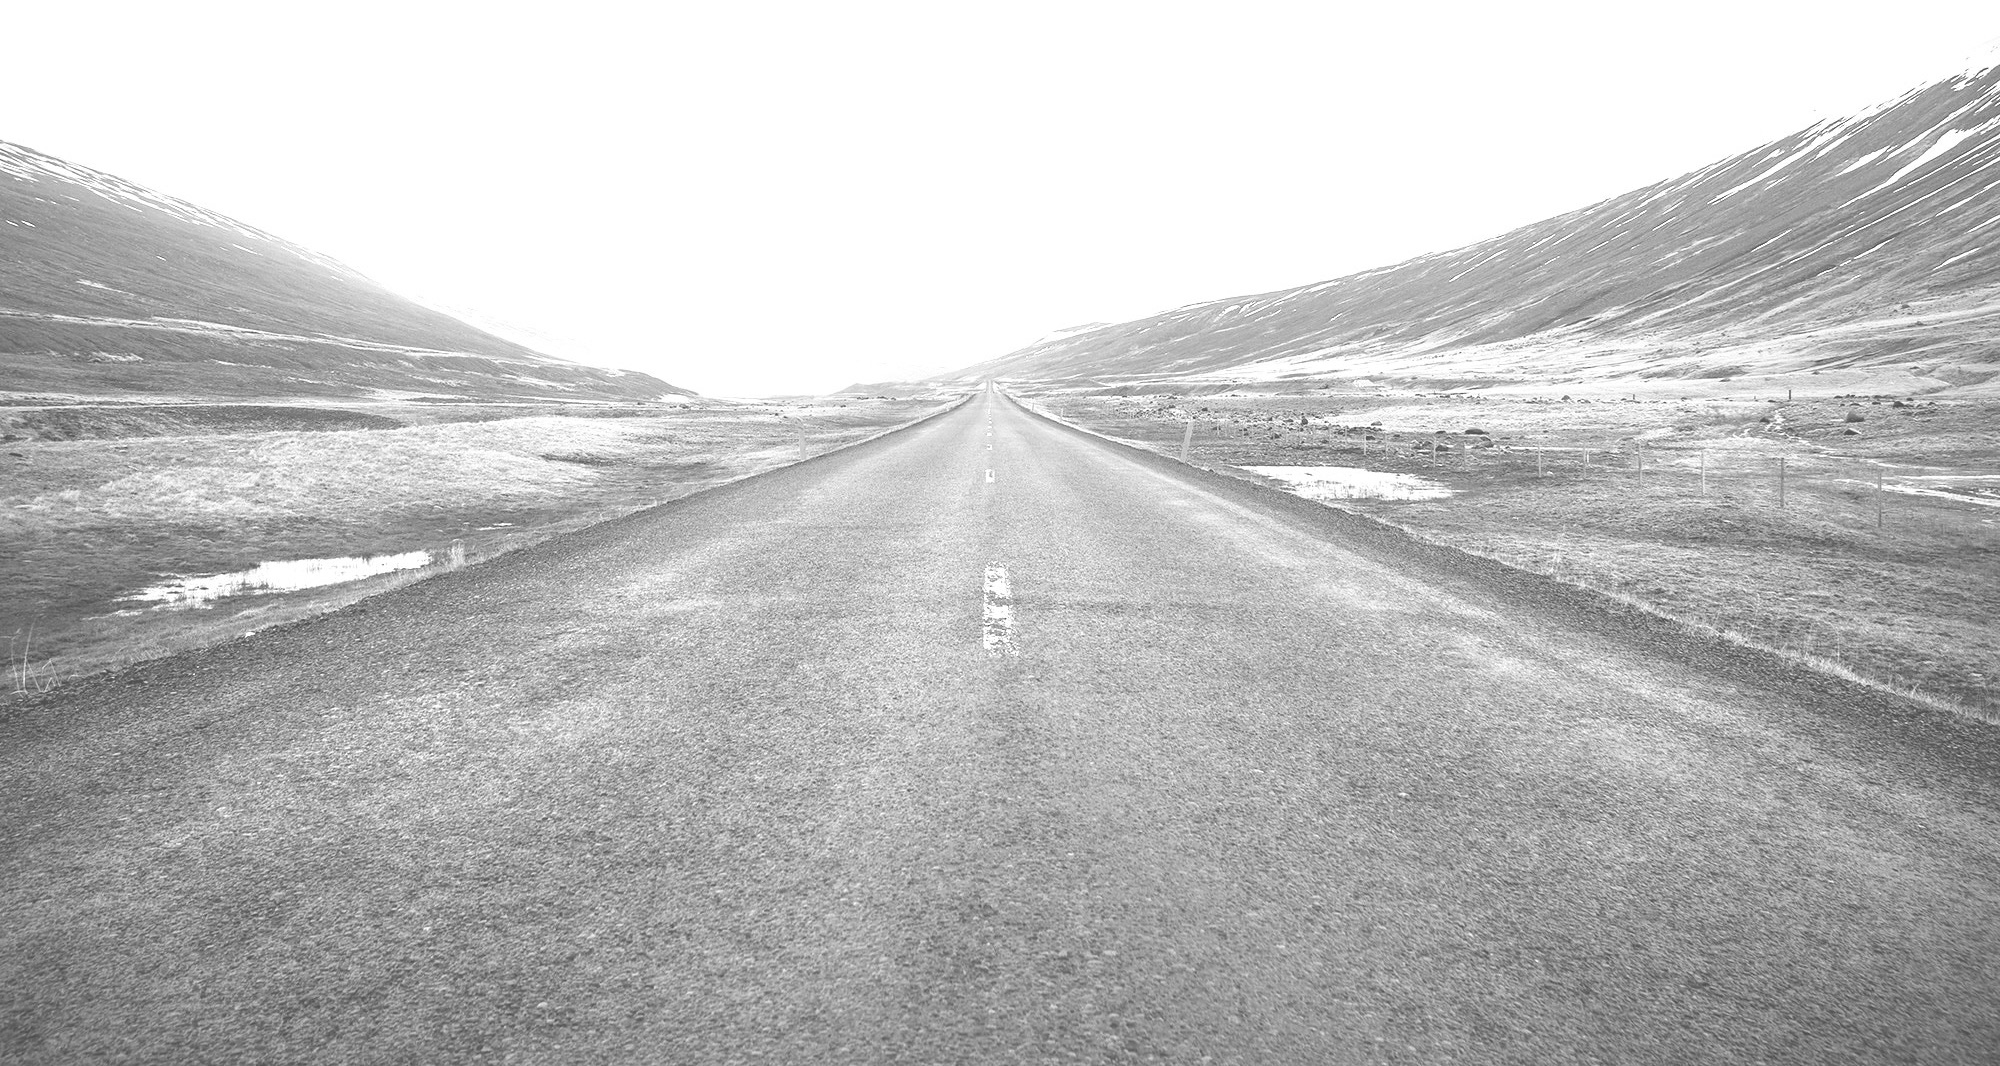
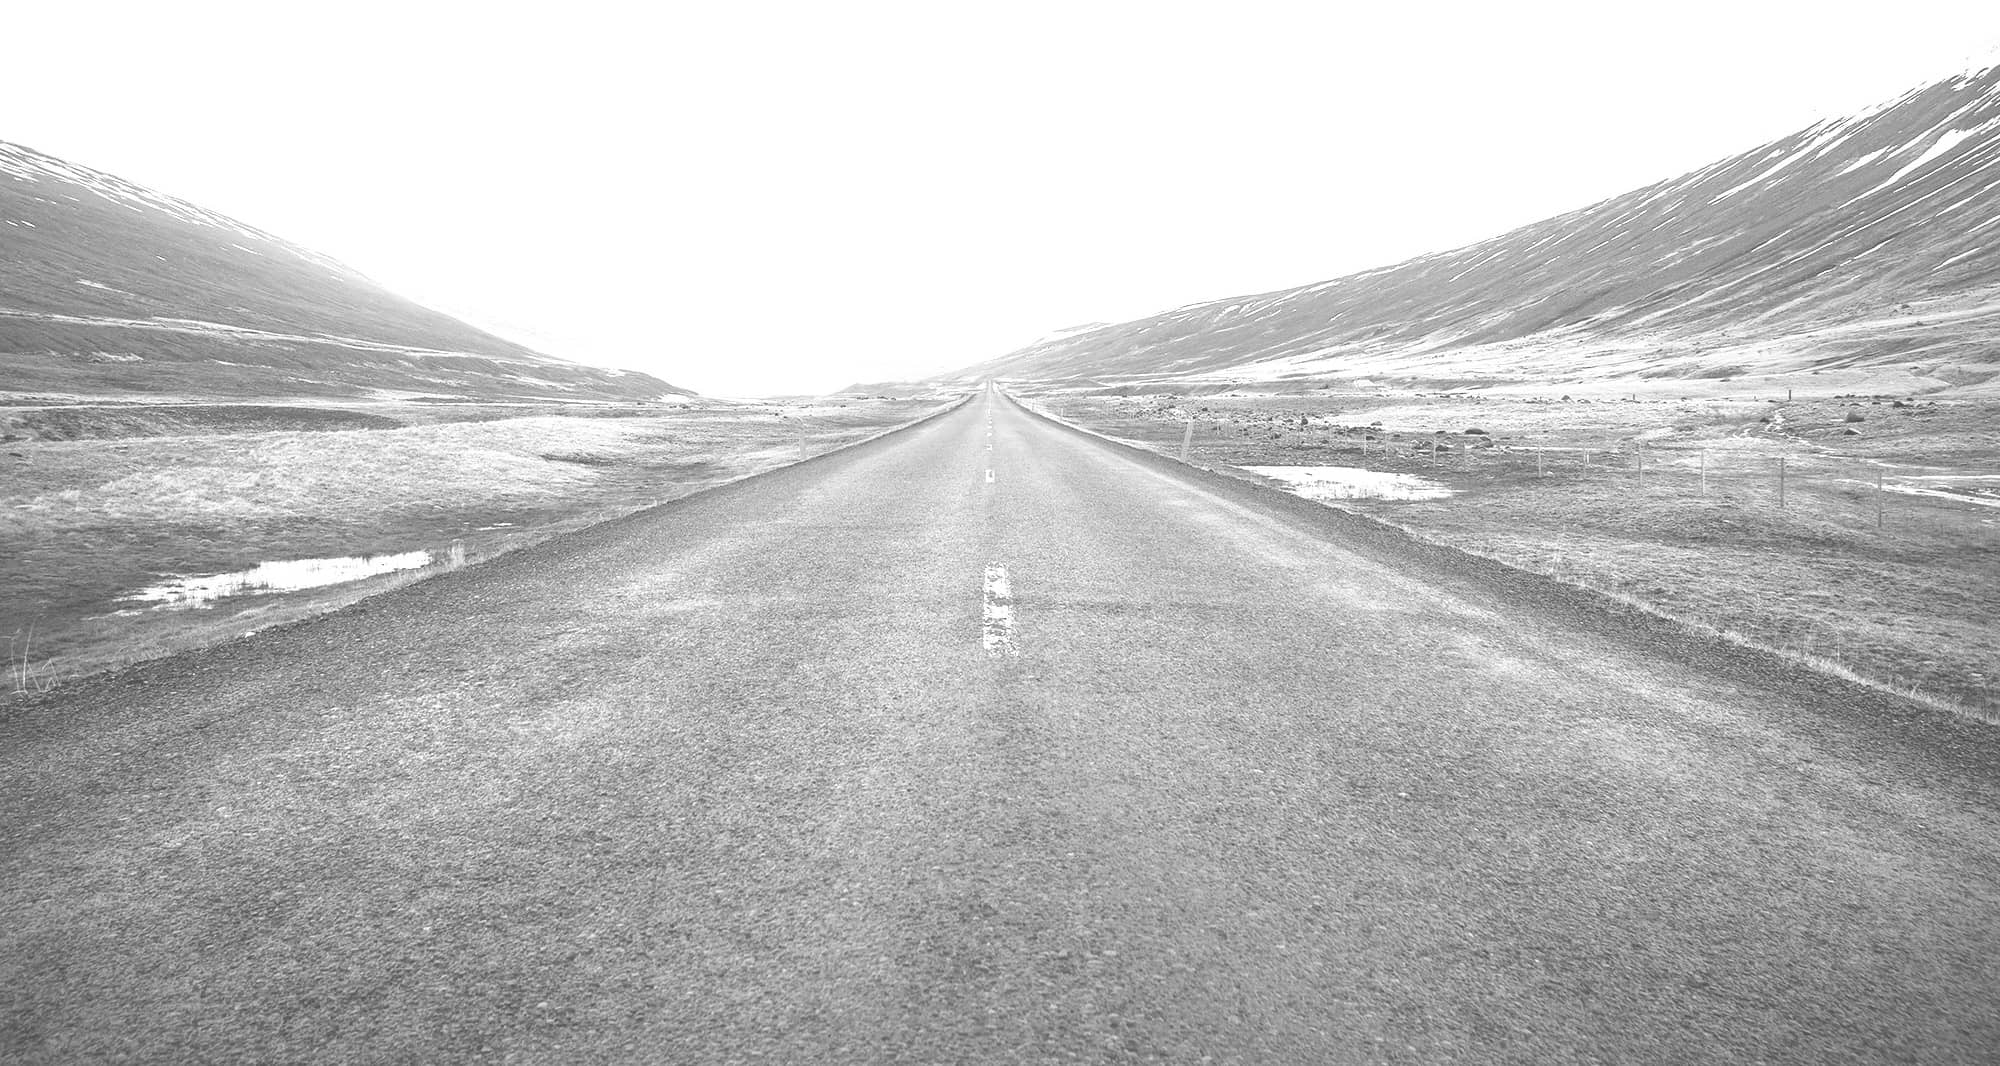
bg team y optimización de imágenes

Changed region(s): [[0.992, 0.0619, 1.0, 0.0929]]

diff --git a/wp-content/themes/fundacion-team-2017/assets/styles/layouts/_team.scss b/wp-content/themes/fundacion-team-2017/assets/styles/layouts/_team.scss
@@ -1,6 +1,7 @@
 section.team {
   padding-top: rem(140px);
-  background-color: $black;
+  background: url('../images/bg-team.jpg') center top no-repeat $black;
+  background-size: contain;
   margin-bottom: rem(112px);
   @media (max-width: $md) {
     padding-top: rem(30px);
